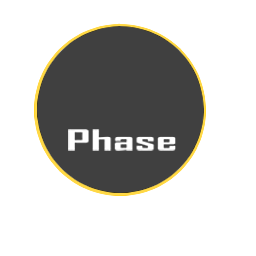
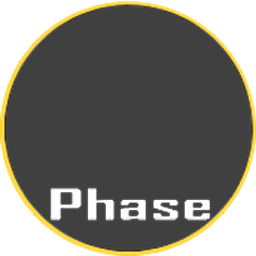
画像入れ替え phase minimap

diff --git a/Solution/Common/define.h b/Solution/Common/define.h
@@ -69,7 +69,7 @@ enum MDL {
 
 enum GRAPH {
 	GRAPH_NUMBER,
-	GRAPH_DELIVERY,
+	GRAPH_PHASE,
 	GRAPH_SELECT_MENU,
 	GRAPH_GAMEOVER,
 	GRAPH_TITLE,
